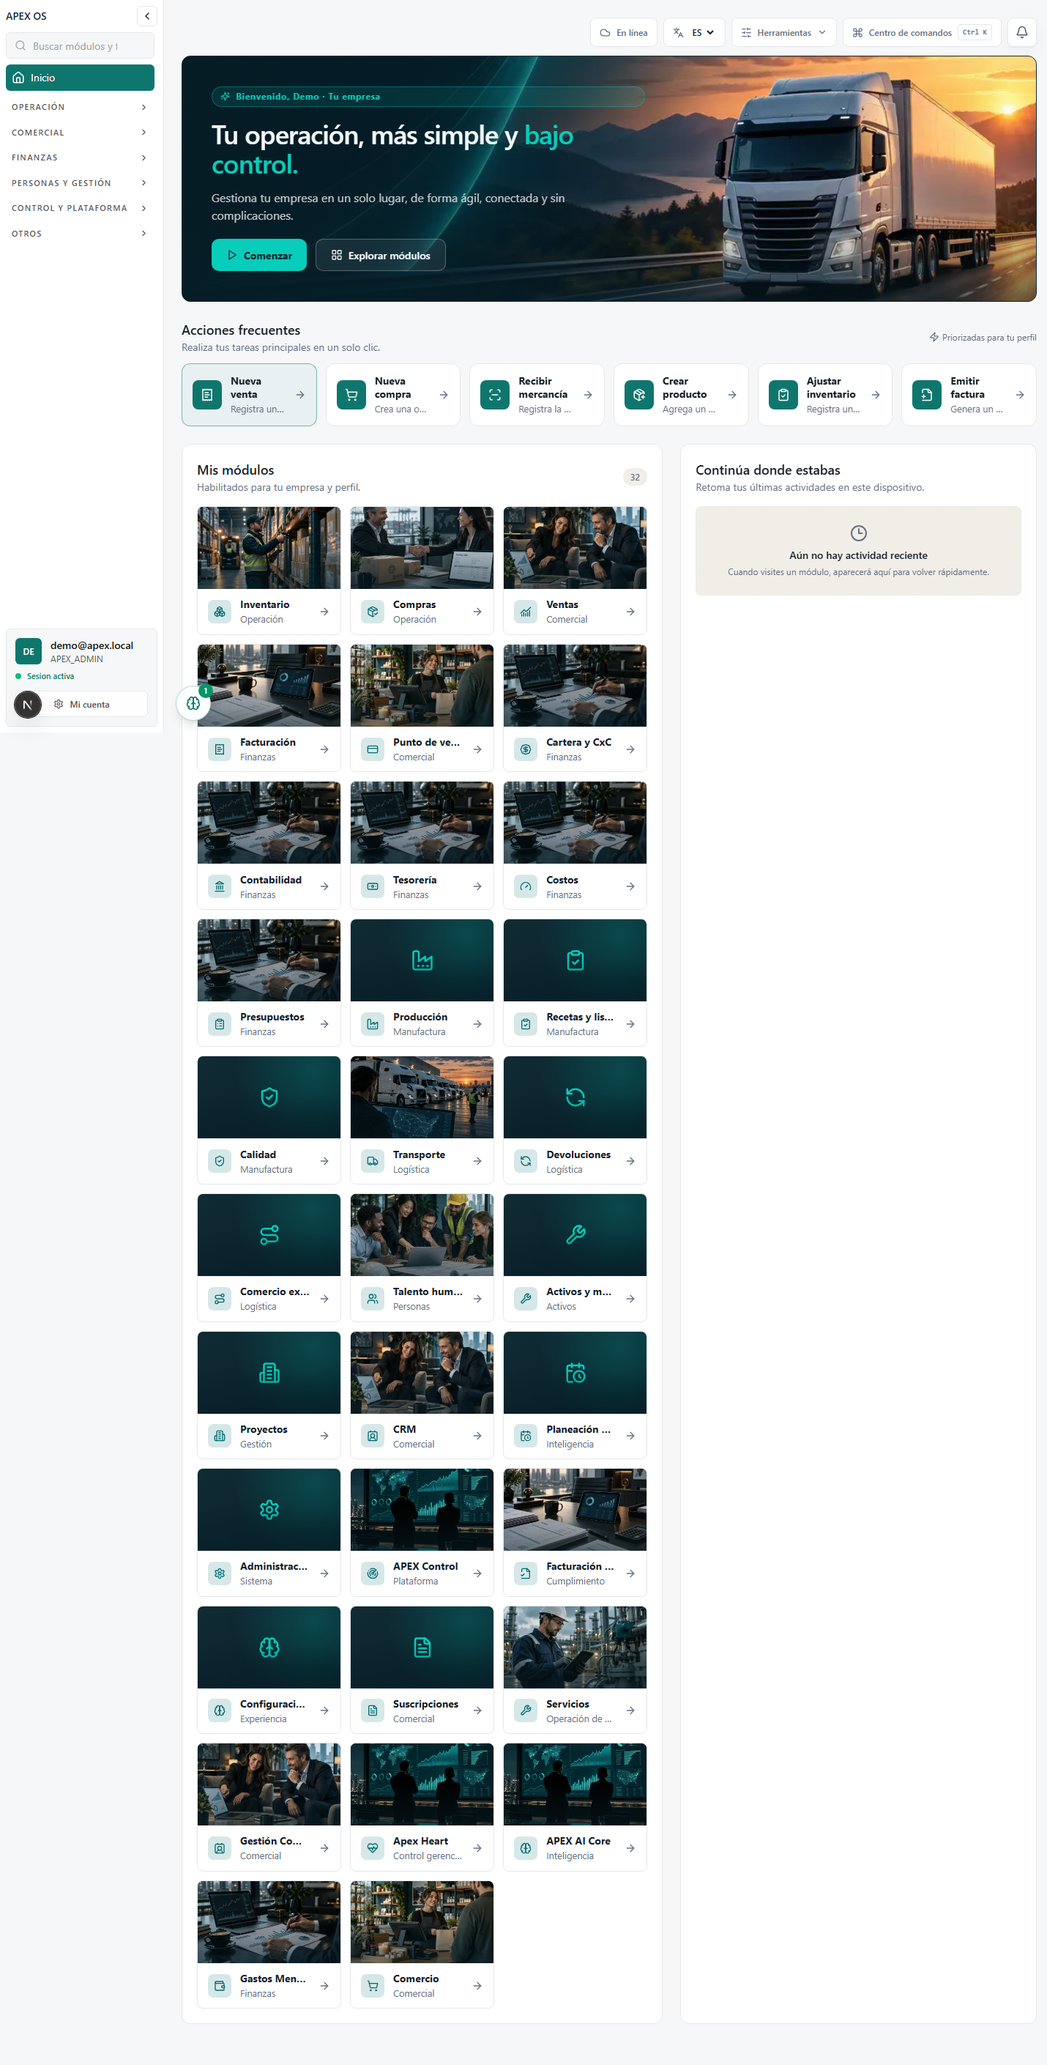
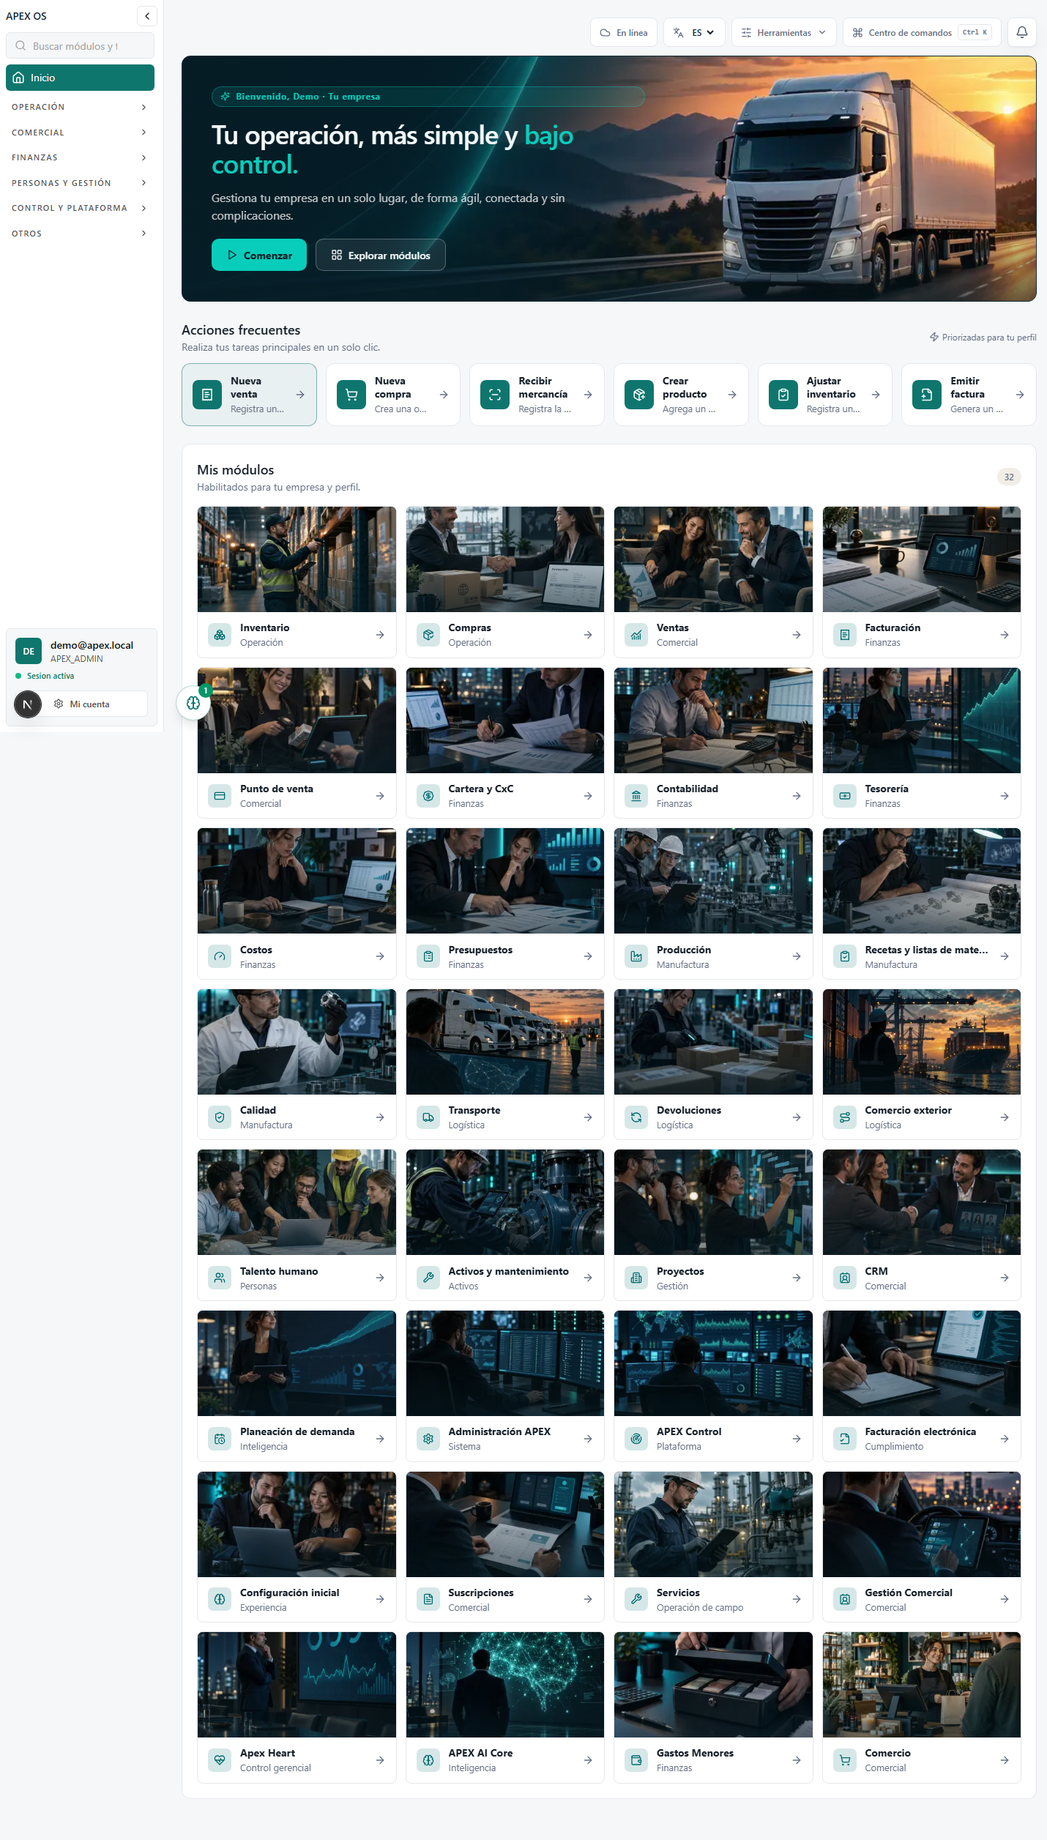
feat(web): modulos del lobby a ancho completo y fotografia propia por modulo
Se retira el panel de actividades recientes por decision del dueno y su
codigo asociado; Mis modulos ocupa la grilla completa de cuatro columnas.
Los 32 modulos del catalogo estrenan fotografia propia generada con la
misma direccion de arte y optimizada a WebP, con prueba que compara slugs,
mapa y archivos en disco. Evidencia CDP en cuatro vistas con verificacion
de imagenes cargadas.

diff --git a/apps/web/app/dashboard/page.tsx b/apps/web/app/dashboard/page.tsx
@@ -2,22 +2,12 @@
 
 import { loadModuleAccess, ModuleAccessState } from "@/lib/moduleAccess";
 import { LOBBY_BANNER, lobbyModuleImage } from "@/lib/lobbyAssets";
-import { MODULES, MODULES_BY_SLUG } from "@/lib/modules";
+import { MODULES } from "@/lib/modules";
 import { actionsForWorkspace } from "@/lib/operationalWorkspace";
-import { AlertCircle, ArrowRight, Clock3, Grid2X2, LayoutGrid, Play, RefreshCw, Search, Sparkles, Zap } from "lucide-react";
+import { AlertCircle, ArrowRight, Grid2X2, LayoutGrid, Play, RefreshCw, Search, Sparkles, Zap } from "lucide-react";
 import Image from "next/image";
 import Link from "next/link";
 import { useEffect, useMemo, useState } from "react";
-
-type Trace = { path: string; label: string; at: string };
-const TRACE_KEY = "apex_navigation_trace_v1";
-
-function readableLabel(trace: Trace) {
-  if (trace.path === "/dashboard") return "Inicio";
-  const parts = trace.path.split("/").filter(Boolean).slice(1);
-  return parts.map((part) => part.replace(/-/g, " ")).map((part) => part.charAt(0).toUpperCase() + part.slice(1)).join(" · ") || trace.label;
-}
-function traceModule(path: string) { return path.split("/").filter(Boolean)[1] || ""; }
 
 function userDisplayName() {
   const email = localStorage.getItem("user_email") || "";
@@ -32,7 +22,6 @@ export default function DashboardPage() {
   const [roleName, setRoleName] = useState("");
   const [companyName, setCompanyName] = useState("");
   const [displayName, setDisplayName] = useState("");
-  const [activity, setActivity] = useState<Trace[]>([]);
 
   async function refreshAccess() {
     setError(""); setAccess((value) => ({ ...value, loading: true }));
@@ -44,14 +33,12 @@ export default function DashboardPage() {
     setRoleName(localStorage.getItem("role_name") || localStorage.getItem("apexos_company_role") || "Usuario operativo");
     setCompanyName(localStorage.getItem("apexos_company_name") || "Tu empresa");
     setDisplayName(userDisplayName());
-    try { setActivity(JSON.parse(localStorage.getItem(TRACE_KEY) || "[]") as Trace[]); } catch { setActivity([]); }
     void refreshAccess();
   }, []);
 
   const activeModules = useMemo(() => MODULES.filter((module) => access.bySlug[module.slug] === true).sort((a, b) => (access.orderBySlug?.[a.slug] ?? 999) - (access.orderBySlug?.[b.slug] ?? 999)), [access]);
   const enabledSlugs = useMemo(() => new Set(activeModules.map((module) => module.slug)), [activeModules]);
   const actions = useMemo(() => actionsForWorkspace(enabledSlugs, roleName).slice(0, 6), [enabledSlugs, roleName]);
-  const recent = activity.filter((item) => item.path !== "/dashboard" && enabledSlugs.has(traceModule(item.path))).slice(0, 5);
   const startHref = actions[0]?.href ?? (activeModules[0] ? `/dashboard/${activeModules[0].slug}` : "#mis-modulos");
 
   if (access.loading) return <WorkspaceLoading />;
@@ -77,24 +64,17 @@ export default function DashboardPage() {
         {actions.length ? <div className="grid gap-3 sm:grid-cols-2 lg:grid-cols-3 xl:grid-cols-6">{actions.map((action, index) => { const Icon = action.icon; return <Link className={`group flex min-h-20 items-center gap-3 rounded-card border p-3.5 transition hover:-translate-y-0.5 hover:shadow-card focus-visible:outline focus-visible:outline-2 focus-visible:outline-offset-2 focus-visible:outline-apex ${index === 0 ? "border-apex/50 bg-apex/5" : "border-line bg-surface"}`} href={action.href} key={action.id} prefetch={false}><span className="flex h-10 w-10 shrink-0 items-center justify-center rounded-control bg-apex text-white"><Icon size={18} /></span><span className="min-w-0 flex-1"><strong className="block text-sm leading-tight text-content-strong">{action.label}</strong><small className="mt-0.5 block truncate text-content-muted">{action.description}</small></span><ArrowRight className="shrink-0 text-content-subtle transition group-hover:translate-x-1 group-hover:text-apex" size={16} /></Link>; })}</div> : <EmptyActions />}
       </section>
 
-      <div className="grid gap-6 xl:grid-cols-[1.35fr_1fr]">
-        <section aria-labelledby="modules-title" className="rounded-card border border-line bg-surface p-4 sm:p-5" id="mis-modulos">
-          <div className="mb-4 flex items-center justify-between"><div><h2 className="text-lg font-semibold text-content-strong" id="modules-title">Mis módulos</h2><p className="text-sm text-content-muted">Habilitados para tu empresa y perfil.</p></div><span className="rounded-full bg-surface-muted px-2.5 py-1 text-xs font-semibold text-content-muted">{activeModules.length}</span></div>
-          <div className="grid gap-3 sm:grid-cols-2 lg:grid-cols-3">{activeModules.map((module) => { const Icon = module.icon; const image = lobbyModuleImage(module.slug); return <Link className="apex-lobby-tile group" href={`/dashboard/${module.slug}`} key={module.slug} prefetch={false}>
-            <span className="apex-lobby-tile-media">{image ? <Image src={image} alt="" fill sizes="(max-width: 640px) 100vw, (max-width: 1280px) 33vw, 320px" /> : <span className="apex-lobby-tile-fallback"><Icon size={30} /></span>}</span>
-            <span className="apex-lobby-tile-body"><span className="apex-lobby-tile-icon"><Icon size={16} /></span><span className="min-w-0 flex-1"><strong className="block truncate text-sm text-content-strong">{module.name}</strong><small className="block truncate text-content-muted">{module.area}</small></span><ArrowRight className="shrink-0 text-content-subtle transition group-hover:translate-x-1 group-hover:text-apex" size={16} /></span>
-          </Link>; })}</div>
-        </section>
-
-        <section aria-labelledby="recent-title" className="rounded-card border border-line bg-surface p-4 sm:p-5">
-          <div className="mb-4"><h2 className="text-lg font-semibold text-content-strong" id="recent-title">Continúa donde estabas</h2><p className="text-sm text-content-muted">Retoma tus últimas actividades en este dispositivo.</p></div>
-          {recent.length ? <ol className="divide-y divide-line">{recent.map((item) => { const mod = MODULES_BY_SLUG[traceModule(item.path)]; const Icon = mod?.icon ?? Clock3; return <li key={`${item.path}-${item.at}`}><Link className="group flex items-center gap-3 py-3 focus-visible:outline focus-visible:outline-2 focus-visible:outline-apex" href={item.path}><span className="flex h-9 w-9 shrink-0 items-center justify-center rounded-control bg-apex/10 text-apex"><Icon size={16} /></span><span className="min-w-0 flex-1"><strong className="block truncate text-sm font-medium text-content-strong">{readableLabel(item)}</strong><small className="mt-0.5 block truncate text-xs text-content-subtle">{mod?.name ?? "Módulo"} · <time>{new Date(item.at).toLocaleString("es-CO", { day: "numeric", month: "short", hour: "2-digit", minute: "2-digit" })}</time></small></span><ArrowRight className="shrink-0 text-content-subtle group-hover:text-apex" size={16} /></Link></li>; })}</ol> : <div className="rounded-control border border-dashed border-line bg-surface-muted p-6 text-center"><Clock3 className="mx-auto text-content-subtle" size={24} /><p className="mt-2 text-sm font-semibold text-content-strong">Aún no hay actividad reciente</p><p className="mt-1 text-xs text-content-muted">Cuando visites un módulo, aparecerá aquí para volver rápidamente.</p></div>}
-        </section>
-      </div>
+      <section aria-labelledby="modules-title" className="rounded-card border border-line bg-surface p-4 sm:p-5" id="mis-modulos">
+        <div className="mb-4 flex items-center justify-between gap-3"><div><h2 className="text-lg font-semibold text-content-strong" id="modules-title">Mis módulos</h2><p className="text-sm text-content-muted">Habilitados para tu empresa y perfil.</p></div><span className="rounded-full bg-surface-muted px-2.5 py-1 text-xs font-semibold text-content-muted">{activeModules.length}</span></div>
+        <div className="grid gap-3 sm:grid-cols-2 lg:grid-cols-3 xl:grid-cols-4">{activeModules.map((module) => { const Icon = module.icon; const image = lobbyModuleImage(module.slug); return <Link className="apex-lobby-tile group" href={`/dashboard/${module.slug}`} key={module.slug} prefetch={false}>
+          <span className="apex-lobby-tile-media">{image ? <Image src={image} alt="" fill sizes="(max-width: 640px) 100vw, (max-width: 1024px) 50vw, (max-width: 1280px) 33vw, 360px" /> : <span className="apex-lobby-tile-fallback"><Icon size={30} /></span>}</span>
+          <span className="apex-lobby-tile-body"><span className="apex-lobby-tile-icon"><Icon size={16} /></span><span className="min-w-0 flex-1"><strong className="block truncate text-sm text-content-strong">{module.name}</strong><small className="block truncate text-content-muted">{module.area}</small></span><ArrowRight className="shrink-0 text-content-subtle transition group-hover:translate-x-1 group-hover:text-apex" size={16} /></span>
+        </Link>; })}</div>
+      </section>
     </> : <section className="rounded-card border border-dashed border-line bg-surface p-8 text-center"><Grid2X2 className="mx-auto text-content-subtle" size={30} /><h2 className="mt-3 text-lg font-semibold text-content-strong">No tienes módulos habilitados</h2><p className="mx-auto mt-1 max-w-md text-sm text-content-muted">Solicita al administrador de tu empresa que active los módulos y permisos necesarios para tu operación.</p></section>}
   </div>;
 }
 
-function WorkspaceLoading() { return <div aria-busy="true" aria-label="Cargando espacio de trabajo" className="mx-auto max-w-[1500px] animate-pulse space-y-6"><div className="h-64 rounded-card bg-surface-muted" /><div className="grid gap-3 sm:grid-cols-2 lg:grid-cols-3 xl:grid-cols-6">{Array.from({ length: 6 }).map((_, index) => <div className="h-20 rounded-card bg-surface-muted" key={index} />)}</div><div className="grid gap-6 xl:grid-cols-[1.35fr_1fr]"><div className="h-80 rounded-card bg-surface-muted" /><div className="h-80 rounded-card bg-surface-muted" /></div></div>; }
+function WorkspaceLoading() { return <div aria-busy="true" aria-label="Cargando espacio de trabajo" className="mx-auto max-w-[1500px] animate-pulse space-y-6"><div className="h-64 rounded-card bg-surface-muted" /><div className="grid gap-3 sm:grid-cols-2 lg:grid-cols-3 xl:grid-cols-6">{Array.from({ length: 6 }).map((_, index) => <div className="h-20 rounded-card bg-surface-muted" key={index} />)}</div><div className="grid gap-3 sm:grid-cols-2 lg:grid-cols-3 xl:grid-cols-4">{Array.from({ length: 8 }).map((_, index) => <div className="h-44 rounded-card bg-surface-muted" key={index} />)}</div></div>; }
 function WorkspaceError({ message, retry }: { message: string; retry: () => void }) { return <section className="mx-auto max-w-xl rounded-card border border-red-200 bg-red-50 p-6 text-center" role="alert"><AlertCircle className="mx-auto text-red-600" size={28} /><h1 className="mt-3 text-lg font-semibold text-red-950">No fue posible preparar tu operación</h1><p className="mt-1 text-sm text-red-800">{message}</p><button className="mt-4 inline-flex h-10 items-center gap-2 rounded-control bg-red-700 px-4 text-sm font-semibold text-white" onClick={retry} type="button"><RefreshCw size={16} />Reintentar</button></section>; }
 function EmptyActions() { return <div className="rounded-card border border-dashed border-line bg-surface p-6 text-center"><Search className="mx-auto text-content-subtle" size={24} /><p className="mt-2 text-sm font-semibold text-content-strong">No hay acciones rápidas para estos módulos</p><p className="mt-1 text-xs text-content-muted">Puedes abrir cualquiera desde Mis módulos.</p></div>; }

diff --git a/apps/web/lib/lobbyAssets.ts b/apps/web/lib/lobbyAssets.ts
@@ -1,27 +1,38 @@
 export const LOBBY_BANNER = "/assets/lobby/banner-truck.webp";
 
 const LOBBY_MODULE_IMAGES: Record<string, string> = {
+  reportes: "/assets/lobby/module-reportes.webp",
   inventario: "/assets/lobby/module-inventario.webp",
   compras: "/assets/lobby/module-compras.webp",
   ventas: "/assets/lobby/module-ventas.webp",
-  "gestion-comercial": "/assets/lobby/module-ventas.webp",
-  crm: "/assets/lobby/module-ventas.webp",
   facturacion: "/assets/lobby/module-facturacion.webp",
-  "facturacion-electronica": "/assets/lobby/module-facturacion.webp",
-  "talento-humano": "/assets/lobby/module-talento-humano.webp",
+  "punto-de-venta": "/assets/lobby/module-punto-de-venta.webp",
+  cxc: "/assets/lobby/module-cxc.webp",
+  contabilidad: "/assets/lobby/module-contabilidad.webp",
+  tesoreria: "/assets/lobby/module-tesoreria.webp",
+  costos: "/assets/lobby/module-costos.webp",
+  presupuestos: "/assets/lobby/module-presupuestos.webp",
+  produccion: "/assets/lobby/module-produccion.webp",
+  recetas: "/assets/lobby/module-recetas.webp",
+  calidad: "/assets/lobby/module-calidad.webp",
   transporte: "/assets/lobby/module-transporte.webp",
+  devoluciones: "/assets/lobby/module-devoluciones.webp",
+  "comercio-exterior": "/assets/lobby/module-comercio-exterior.webp",
+  "talento-humano": "/assets/lobby/module-talento-humano.webp",
+  activos: "/assets/lobby/module-activos.webp",
+  proyectos: "/assets/lobby/module-proyectos.webp",
+  crm: "/assets/lobby/module-crm.webp",
+  "planeacion-demanda": "/assets/lobby/module-planeacion-demanda.webp",
+  administracion: "/assets/lobby/module-administracion.webp",
+  "facturacion-electronica": "/assets/lobby/module-facturacion-electronica.webp",
   servicios: "/assets/lobby/module-servicios.webp",
+  "apex-ai": "/assets/lobby/module-apex-ai.webp",
+  "configuracion-inicial": "/assets/lobby/module-configuracion-inicial.webp",
+  suscripciones: "/assets/lobby/module-suscripciones.webp",
+  "gestion-comercial": "/assets/lobby/module-gestion-comercial.webp",
+  "gastos-menores": "/assets/lobby/module-gastos-menores.webp",
   comercio: "/assets/lobby/module-comercio.webp",
-  "punto-de-venta": "/assets/lobby/module-comercio.webp",
-  reportes: "/assets/lobby/module-heart.webp",
-  "apex-ai": "/assets/lobby/module-heart.webp",
-  "apex-control": "/assets/lobby/module-heart.webp",
-  cxc: "/assets/lobby/module-finanzas.webp",
-  contabilidad: "/assets/lobby/module-finanzas.webp",
-  tesoreria: "/assets/lobby/module-finanzas.webp",
-  costos: "/assets/lobby/module-finanzas.webp",
-  presupuestos: "/assets/lobby/module-finanzas.webp",
-  "gastos-menores": "/assets/lobby/module-finanzas.webp"
+  "apex-control": "/assets/lobby/module-apex-control.webp"
 };
 
 export function lobbyModuleImage(slug: string): string | null {

diff --git a/apps/web/app/globals.css b/apps/web/app/globals.css
@@ -1693,7 +1693,7 @@ html.dark .platform-alert-close:hover {
 .apex-lobby-tile-media {
   position: relative;
   display: block;
-  height: 7rem;
+  height: 9rem;
   overflow: hidden;
   background: rgb(var(--lobby-deep));
 }

diff --git a/docs/qa/evidence/lobby-v4-20261110/validacion.md b/docs/qa/evidence/lobby-v4-20261110/validacion.md
@@ -6,44 +6,58 @@ Fase piloto acotada al lobby del dashboard (`/dashboard`), con la imagen de refe
 corporativo oscuro con acentos turquesa como referencia obligatoria. El resto de la plataforma
 queda sin intervenir hasta la aprobación explícita de la siguiente fase.
 
+## Ronda 2 (retroalimentación del dueño)
+
+- **Panel secundario retirado.** «Continúa donde estabas» salió del lobby por decisión del dueño
+  («no me aporta valor») junto con su estado, su lectura de `apex_navigation_trace_v1` y sus
+  helpers. «Mis módulos» ocupa el ancho completo en grilla de cuatro columnas.
+- **Cobertura fotográfica total.** Los 32 módulos del catálogo tienen fotografía propia generada
+  con la misma dirección de arte y optimizada a WebP 1024×768 (24–69 KB). Se retiraron las dos
+  imágenes compartidas (`module-finanzas.webp`, `module-heart.webp`).
+
 ## Cambios
 
 | Archivo | Cambio |
 |---|---|
-| `apps/web/app/dashboard/page.tsx` | M — lobby V4: hero con banner panorámico, acciones frecuentes, tarjetas fotográficas de módulos, panel «Continúa donde estabas» |
-| `apps/web/lib/lobbyAssets.ts` | A — mapa slug→asset y constante del banner |
-| `apps/web/app/globals.css` | M — tokens `--lobby-*` y clases `.apex-lobby-*` (alcance limitado a la clase del lobby) |
-| `apps/web/public/assets/lobby/*.webp` | A — 11 imágenes generadas y optimizadas (38–56 KB c/u) |
-| `apps/web/test/operational-home-redesign.test.mjs` | M — contrato de copy del lobby V4 + prueba de banner/tarjetas |
-| `apps/web/test/phase-two-intelligent-experience.test.mjs` | M — literales renombrados |
+| `apps/web/app/dashboard/page.tsx` | M — ancho completo sin panel secundario; grilla `xl:grid-cols-4`; tarjetas con `sizes` de cuatro columnas |
+| `apps/web/lib/lobbyAssets.ts` | M — mapa slug→asset para los 32 módulos, sin imágenes compartidas |
+| `apps/web/app/globals.css` | M — altura de la franja fotográfica de tarjeta a 9rem |
+| `apps/web/public/assets/lobby/` | A 24 / D 2 — 32 fotografías de módulo + banner |
+| `apps/web/test/operational-home-redesign.test.mjs` | M — prueba de cobertura y unicidad fotográfica por slug; prueba de ancho completo |
+| `apps/web/test/phase-two-intelligent-experience.test.mjs` | M — el copy retirado se afirma por ausencia |
 
 ## Validación ejecutada
 
-- Pruebas web: `node --test "test/*.test.mjs"` — **669/669** en verde.
-- Typecheck (`tsconfig.typecheck.json`) y ESLint en verde (fix de `@next/next/no-assign-module-variable` renombrando `module` → `mod`).
-- Navegador real (headless Edge vía CDP, perfil limpio):
-  - `evidence-lobby-desktop-light.png` — tema claro, 1440 px.
-  - `evidence-lobby-desktop-dark.png` — tema oscuro, 1440 px.
-  - `evidence-lobby-mobile-light.png` — tema claro, móvil.
-  - Imágenes verificadas cargadas (`naturalWidth > 0`); en móvil las tarjetas bajo el fold cargan con lazy-load tras scroll medido (comportamiento esperado de `next/image`).
-- Rendimiento percibido (dev server): DCL ~135–176 ms escritorio, ~630 ms móvil; banner con `priority`, tarjetas con `fill` + `sizes`.
-- Sin lógica de negocio alterada: acceso por `loadModuleAccess(MODULES)`, traza de `apex_navigation_trace_v1`, saludo derivado del correo. Sin datos inventados (el estado vacío de «Continúa donde estabas» se muestra honesto).
+- Pruebas web: `node --test "test/*.test.mjs"` — **670/670** en verde.
+- Typecheck (`tsconfig.typecheck.json`) y ESLint sobre los archivos tocados: sin hallazgos.
+- Navegador real (headless Edge vía CDP, perfil limpio), cuatro capturas:
+  - `evidence-lobby-desktop-light.png` — 1440 px, tema claro.
+  - `evidence-lobby-desktop-dark.png` — 1440 px, tema oscuro.
+  - `evidence-lobby-mobile-light.png` — 390 px, tema claro.
+  - `evidence-lobby-mobile-dark.png` — 390 px, tema oscuro.
+- El certificador de captura recorre la página para forzar el lazy-load y **falla** si alguna
+  imagen queda con `naturalWidth = 0`; las 33 imágenes (banner + 32 módulos) cargaron en todas
+  las capturas (359 px de ancho natural en escritorio, 390 px en móvil).
+- Sin lógica de negocio alterada: acceso por `loadModuleAccess(MODULES)`, saludo derivado del
+  correo. Sin datos inventados ni módulos fuera de autorización.
 
 ## Línea base vs después
 
-- Antes: lobby en tema claro con tarjetas estáticas de icono, sin banner, sin fotografía.
-- Después: hero panorámico constante (oscuro en ambos temas), tarjetas fotográficas alusivas por módulo con fallback de degradado corporativo, CTAs «Comenzar» y «Explorar módulos».
+- Antes (ronda 1): panel secundario de actividad y 21 tarjetas con degradado genérico.
+- Después: módulos a ancho completo, 32 fotografías alusivas únicas, hero panorámico constante
+  (oscuro en ambos temas) y CTAs «Comenzar» / «Explorar módulos».
 
 ## Pendientes
 
 1. Aprobación del dueño de esta fase piloto antes de extender el Design System V4 al resto del panel.
-2. La evidencia de móvil en tema oscuro no se capturó (la clara valida el layout; el oscuro hereda las mismas clases y quedó medido en escritorio).
-3. Capturas tomadas sobre dev server; repetir contra build de producción (`next build && next start`) cuando la fase se promueva.
-4. Las imágenes se generaron con dirección de arte única (sin licencias de terceros); si el dueño prefiere fotografía real de la operación, se sustituyen los assets sin tocar código.
+2. Capturas tomadas sobre dev server; repetir contra build de producción (`next build && next start`) cuando la fase se promueva.
+3. Las imágenes se generaron con dirección de arte única (sin licencias de terceros); si el dueño
+   prefiere fotografía real de la operación, se sustituyen los assets sin tocar código.
 
 ## Reproducir
 
-Las capturas se generaron con `vibe_images/cdp-capture.mjs` (cliente CDP sobre Node 24,
-headless Edge con `--remote-debugging-port=9225`), con login contra `http://127.0.0.1:3000/api/v1/auth/login`
+Las capturas se generan con `vibe_images/cdp-capture.mjs` (cliente CDP sobre Node 24, headless
+Edge con `--remote-debugging-port=9225`), login contra `http://127.0.0.1:3000/api/v1/auth/login`
 (la CSP de `apps/web` no permite `localhost` en connect-src) y navegación a `/dashboard` en el
-dev server del puerto 3001.
+dev server del puerto 3001. El script recorre la página, espera a que todas las imágenes carguen
+y solo entonces captura.
